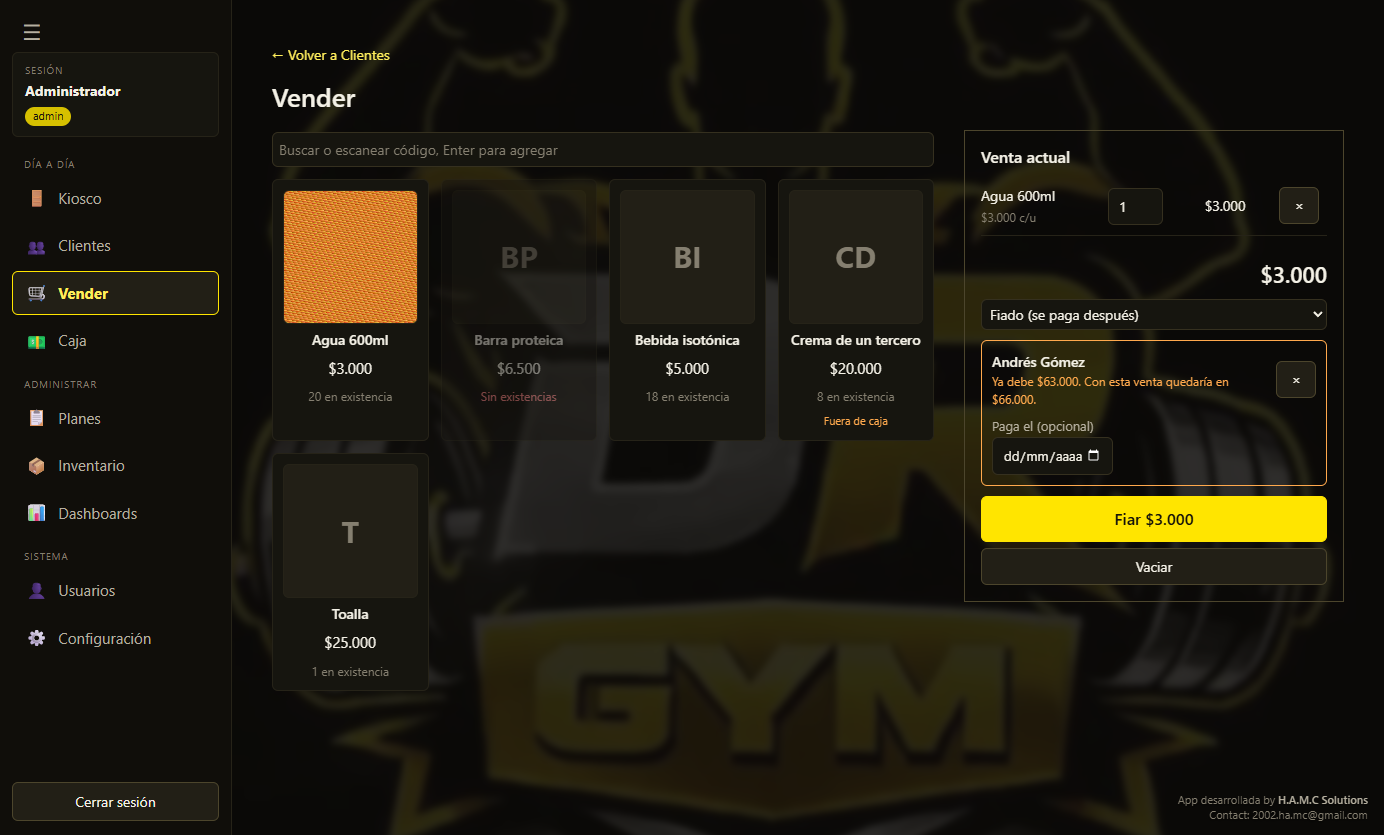
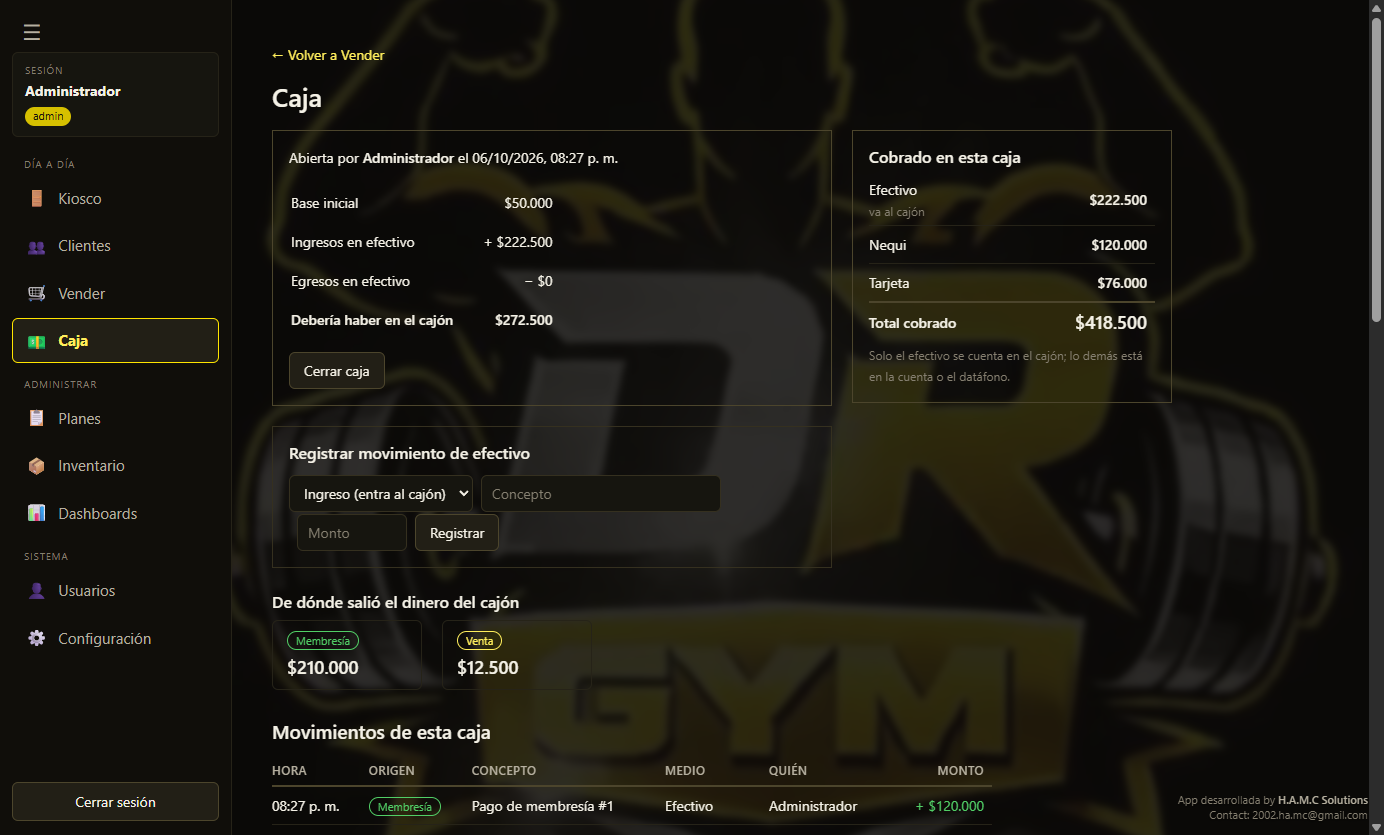
GymApp: todos los medios de pago entran a la caja, con cuadro por medio

diff --git a/data/proyectos.js b/data/proyectos.js
@@ -512,7 +512,7 @@ const PROYECTOS = [
         <li><strong>Clientes y membresías:</strong> ficha con foto, planes por días o por tiquetes, renovaciones, pausas y pagos a crédito (fiados).</li>
         <li><strong>Control de acceso:</strong> kiosco a pantalla completa donde el cliente entra con huella, código de barras del carnet o PIN. Cada entrada queda registrada con su motivo.</li>
         <li><strong>Puerta automática:</strong> cuando el acceso es válido, un Arduino Nano con un relé le da la orden al controlador del electroimán y la puerta se suelta unos segundos. Ya está probada de punta a punta; falta montarla en la entrada.</li>
-        <li><strong>Punto de venta, inventario y caja:</strong> productos con código de barras, entradas y salidas de mercancía, apertura y cierre por turno con cada medio de pago.</li>
+        <li><strong>Punto de venta, inventario y caja:</strong> productos con código de barras, entradas y salidas de mercancía, apertura y cierre por turno. Cada cobro entra a la caja con su medio (efectivo, QR, Llave, Nequi, tarjeta) y al cerrar se ve cuánto entró por cada uno; el arqueo cuenta solo el efectivo.</li>
         <li><strong>Recordatorios por correo:</strong> aviso automático a quien está por vencer o ya venció, con frenos para no escribirle dos veces a nadie.</li>
         <li><strong>Excel y respaldos:</strong> importación masiva de clientes, exportación del padrón y copias de seguridad con restauración verificada.</li>
       </ul>
@@ -562,7 +562,7 @@ const PROYECTOS = [
         <li><strong>Clients and memberships:</strong> profile with photo, day-based or ticket-based plans, renewals, pauses and payments on credit.</li>
         <li><strong>Access control:</strong> full-screen kiosk where clients check in with fingerprint, membership-card barcode or PIN. Every entry is logged with its reason.</li>
         <li><strong>Automatic door:</strong> when access is valid, an Arduino Nano with a relay signals the electromagnetic lock controller and the door releases for a few seconds. Fully tested end to end; mounting it at the entrance is still pending.</li>
-        <li><strong>Point of sale, inventory and cash register:</strong> barcode products, stock in and out, shift opening and closing with every payment method.</li>
+        <li><strong>Point of sale, inventory and cash register:</strong> barcode products, stock in and out, shift opening and closing. Every payment enters the register with its method (cash, QR, bank transfer, Nequi, card) and the closing view shows how much came in through each one; the cash count only includes cash.</li>
         <li><strong>Email reminders:</strong> automatic notice to members about to expire or already expired, with safeguards so nobody gets written twice.</li>
         <li><strong>Excel and backups:</strong> bulk client import, roster export and backups with verified restore.</li>
       </ul>
